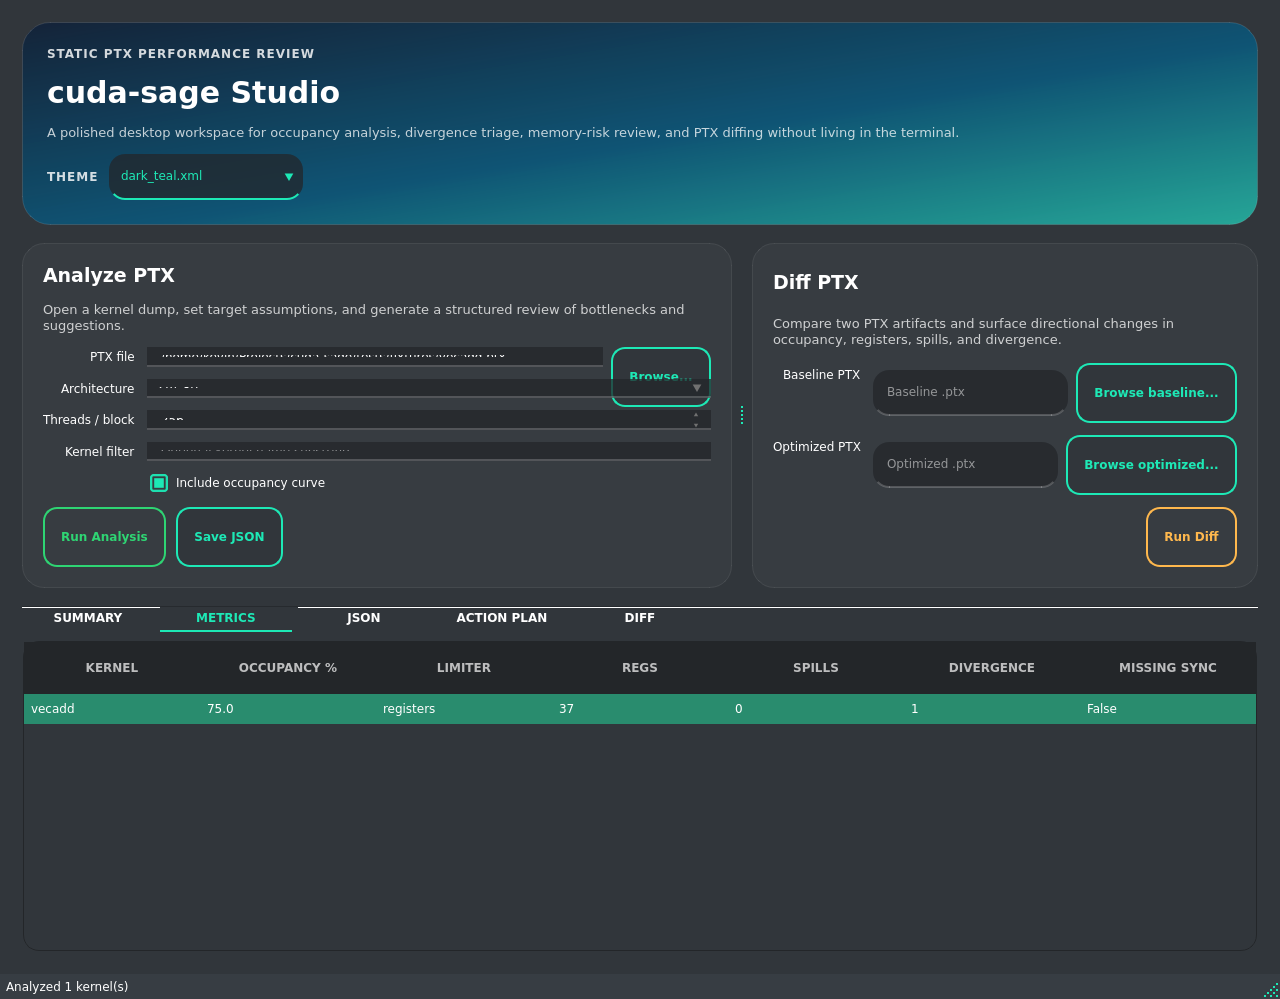
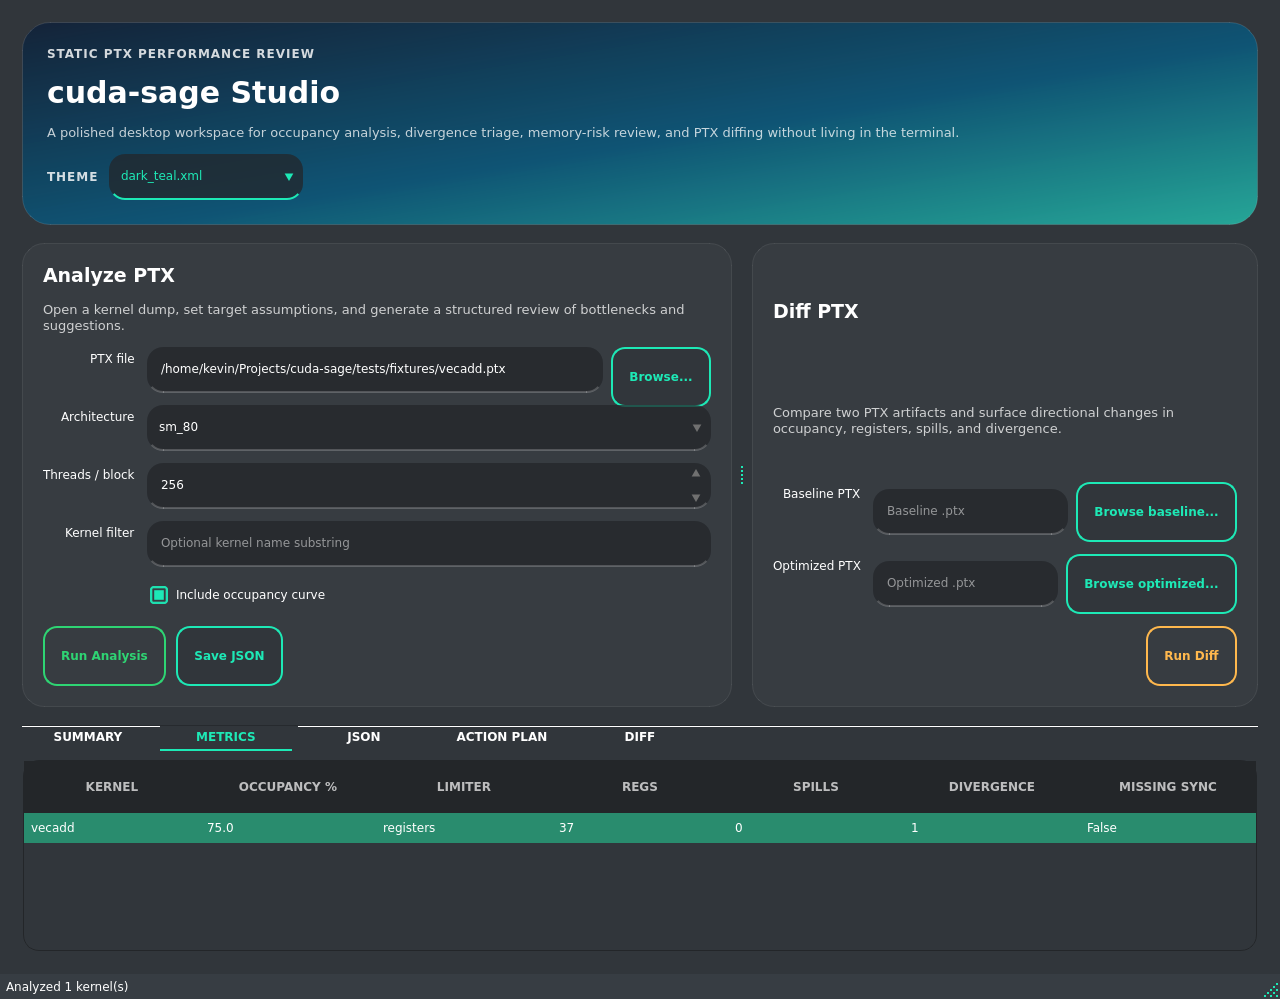
feat: improve screenshot capturing in GUI with layout flush and refactored code

diff --git a/src/cudasage/gui.py b/src/cudasage/gui.py
@@ -1187,10 +1187,26 @@ def main() -> None:
     if capture_dir_raw:
         capture_dir = Path(capture_dir_raw)
 
+        def _flush() -> None:
+            """Force a complete layout + paint cycle for offscreen rendering."""
+            for _ in range(6):
+                app.processEvents()
+
+        def _grab(filename: str) -> None:
+            _flush()
+            window.grab().save(str(capture_dir / filename))
+
         def _capture() -> None:
             capture_dir.mkdir(parents=True, exist_ok=True)
             repo_root = Path(__file__).resolve().parents[2]
             fixtures = repo_root / "tests" / "fixtures"
+
+            # Force layout to calculate before any grab: resize triggers a full
+            # geometry pass that QFormLayout needs to distribute widths correctly.
+            window.resize(1280, 860)
+            window.show()
+            window.raise_()
+            _flush()
 
             # Drive the existing UI handlers so screenshots reflect real app behavior.
             window.ptx_path.setText(str(fixtures / "vecadd.ptx"))
@@ -1199,35 +1215,30 @@ def main() -> None:
             window.kernel_filter.setText("")
             window.curve_box.setChecked(True)
             window._run_analysis()
+            _flush()
 
-            app.processEvents()
             window.tabs.setCurrentIndex(0)
-            app.processEvents()
-            window.grab().save(str(capture_dir / "gui-summary.png"))
+            _grab("gui-summary.png")
 
             window.tabs.setCurrentIndex(1)
-            app.processEvents()
-            window.grab().save(str(capture_dir / "gui-metrics.png"))
+            _grab("gui-metrics.png")
 
             window.tabs.setCurrentIndex(2)
-            app.processEvents()
-            window.grab().save(str(capture_dir / "gui-json.png"))
+            _grab("gui-json.png")
 
             window.tabs.setCurrentIndex(3)
-            app.processEvents()
-            window.grab().save(str(capture_dir / "gui-action-plan.png"))
+            _grab("gui-action-plan.png")
 
             window.base_path.setText(str(fixtures / "vecadd.ptx"))
             window.opt_path.setText(str(fixtures / "vecadd.ptx"))
             window._run_diff()
-            app.processEvents()
+            _flush()
             window.tabs.setCurrentIndex(4)
-            app.processEvents()
-            window.grab().save(str(capture_dir / "gui-diff.png"))
+            _grab("gui-diff.png")
 
             app.quit()
 
-        QTimer.singleShot(350, _capture)
+        QTimer.singleShot(500, _capture)
 
     sys.exit(app.exec())
 
